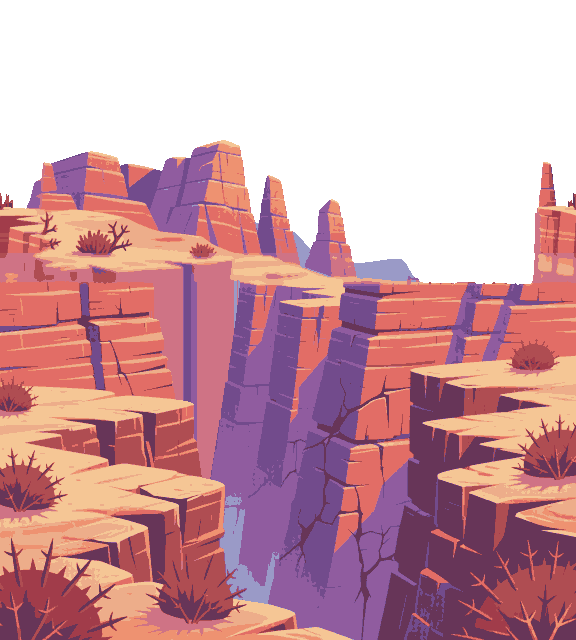
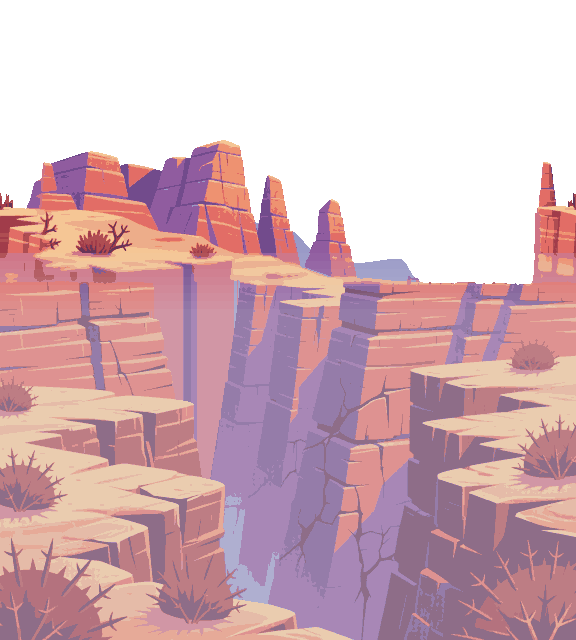
M6a-1b art: the fallen barrier, the smoke as a plume blown west, hazed gorge-wall ledges (D795)
- gen_barrier.png: a huge faint glass dome with a broken-out hole and cracks over the east,
  x0.1, behind everything but the sky; drawn as light on black, brightness -> 4 alpha steps
  (0.1-0.45), one pale cold white. Shared by the path and the scree.
- gen_plume.png replaces the two x0.1 smoke columns (Sapega's sketch: the smoke drifts west
  across the sky and we walk toward its source): x0.4 between far and mid, world-anchored;
  ~100 px of tail at the path's start, the whole plume on the scree, the stem to the source
  always beyond the east edge. comfy_backdrop.py: width= for a layer wider than the screen
  (cache key unchanged for other layers); khaki threshold 20 (gen_mid unchanged).
- ScreeSlide/gen_mid.png: the gorge wall below the ridge +0.35 haze in 8 steps, so its
  ledges stop reading as walkable.
- Review sheet: path -> scree progression, a x2 crop of the barrier, the barrier alone.

Claude-Session: https://claude.ai/code/session_01A2gnDWaoeJGbj3GPH4dnCF

diff --git a/design/shots/candidates/path_planes/path_planes.py b/design/shots/candidates/path_planes/path_planes.py
@@ -1,9 +1,9 @@
 """M6a-1: гірська стежка (2 екрани) і осипище (1×2) — дорога від мосту до села, без боїв (world_structure_plan v3).
 Шари стежки робить comfy_backdrop.py (MountainPath/gen_*); тут — два шари осипища, яких одним текстом не зробити,
-обрізка смуги землі й аркуш для Сапеги.
-  python -B design/shots/candidates/path_planes/path_planes.py gen    — ComfyUI: стіна ущелини під гребенем gen_mid і
-                                                                       схил осипу за напрямною (сирі PNG поруч)
-  python -B design/shots/candidates/path_planes/path_planes.py build  — (scipy) плани осипища, рядок 0 gen_ground
+бар'єр (світло на чорному → прозорість), обрізка смуги землі й аркуш для Сапеги.
+  python -B design/shots/candidates/path_planes/path_planes.py gen    — ComfyUI: стіна ущелини під гребенем gen_mid,
+                                                                       схил осипу за напрямною, бар'єр (сирі PNG поруч)
+  python -B design/shots/candidates/path_planes/path_planes.py build  — (scipy) плани осипища, рядок 0 gen_ground, gen_barrier
   python -B design/shots/candidates/path_planes/path_planes.py sheet  — design/shots/m6a1_path_scree.png
 
 Одиниці — пікселі арту (світ = ×1.5). Стежка 1152×320 (1728×480 світу), осипище 576×640 (864×960), праворуч від
@@ -33,6 +33,32 @@ PATH_W = 1152  # ширина стежки — осипище починаєть
 MID_F = 0.75
 ROLL = round(MID_F * PATH_W) % W  # фаза плитки gen_mid, яку бачить осипище (288)
 KEEP_MID = 253  # рядки gen_mid, що в осипищі лишаються як є; нижче — стіна ущелини
+# бар'єр — величезний прозорий купол над селом із тріщиною (Сапега: «прозорий шар в небі з тріщиною»); лор кольору не
+# дає («дзвенів над дюнами»), тож модель малює світло на чорному, а колір і прозорість — наші (build)
+BARRIER_SEED = 701  # ширший і пласкіший купол; 702 — вужчий
+BARRIER_CROP = (
+    188,
+    72,
+    1556,
+    688,
+)  # x0, y0, x1, y1 сирої: купол без «підлоги» й обідка внизу (вони за горами)
+BARRIER_BLOCK = 3  # px генерації на px арту: купол 456×205 — чотири п'ятих екрана, вершина над усіма горами
+BARRIER_ALPHA = (0.1, 0.18, 0.3, 0.45)  # тіло (за ним видно пролам), відблиски, обрис, кромки тріщини
+BARRIER_TINT = np.array(
+    [236, 246, 255], np.float32
+)  # блідо-біле скло з холодним відтінком (лор кольору не дає)
+WALL_HAZE = 0.35  # додатковий серпанок стіни ущелини під гребенем: уступи не мають читатися як підлога (D795)
+WALL_RAMP = (
+    64  # рядків від KEEP_MID, за які серпанок наростає (8 сходинок, без дизерингу)
+)
+BARRIER_TEXT = (
+    "a gigantic faint transparent dome of magical glass seen from very far away, a thin shimmering hemisphere shell "
+    "of pale white light, its curved base resting on the bottom edge of the frame and its arc filling the whole width, "
+    "only its thin bright outline and a few faint streaks of reflection on its surface, the inside of the dome dark "
+    "and empty, a long jagged crack running down across its upper left part with a large shard broken out of the "
+    "shell leaving a jagged hole, thin cracks branching from the hole, no ground, no landscape, nothing else, on a "
+    "pure solid black background, flat matte painting for a 2D game, clean simple shapes"
+)
 
 
 def raw(name):
@@ -62,7 +88,9 @@ def gen():
     if not os.path.exists(raw("scree_mid_603")):
         g = mid_guide()
         y = np.arange(SH * K)
-        keep = np.clip(((KEEP_MID + 34) * K - y) / (34 * K), 0, 1)  # 1 — лишити, 0 — перемалювати
+        keep = np.clip(
+            ((KEEP_MID + 34) * K - y) / (34 * K), 0, 1
+        )  # 1 — лишити, 0 — перемалювати
         alpha = np.repeat((keep * 255).astype(np.uint8)[:, None, None], W * K, axis=1)
         name = cb.upload(np.concatenate([g, alpha], 2), "scree_mid.png")
         text = (
@@ -119,6 +147,11 @@ def gen():
         out = cb.run(cb.graph(text, 611, SH * K, name, 0.8))
         Image.fromarray(out.astype(np.uint8)).save(raw("scree_611"))
         print("scree_611", flush=True)
+    # бар'єр, що впав (D795): світло на чорному тлі — яскравість стане прозорістю (build)
+    if not os.path.exists(raw(f"barrier_{BARRIER_SEED}")):
+        out = cb.run(cb.graph(BARRIER_TEXT, BARRIER_SEED, 976))
+        Image.fromarray(out.astype(np.uint8)).save(raw(f"barrier_{BARRIER_SEED}"))
+        print(f"barrier_{BARRIER_SEED}", flush=True)
     cb.urllib.request.urlopen(
         cb.urllib.request.Request(
             cb.API + "/free",
@@ -160,6 +193,10 @@ def build():
     out = np.zeros((SH, W, 4), np.uint8)
     out[..., :3] = to_palette(rgb, palette(MP + "gen_mid.png"))
     out[..., 3] = opaque * 255
+    # стіна під гребенем — у серпанку, як далина: сходинками по 8 рядків від KEEP_MID, тож шва з гребенем немає
+    step = np.clip((np.arange(SH) - KEEP_MID) // (WALL_RAMP // 8) + 1, 0, 8) / 8
+    h = (WALL_HAZE * step)[:, None, None]
+    out[..., :3] = np.round(out[..., :3] * (1 - h) + cb.HAZE * h).astype(np.uint8)
     out[: len(mid)][:KEEP_MID] = mid[:KEEP_MID]
     Image.fromarray(out).save(SC + "gen_mid.png")
     # схил: колір — генерація в палітрі gen_ground, форма — точно SLOPE (по ній карта ставить колізію)
@@ -186,10 +223,39 @@ def build():
     out[green, :3] = pal[len(pal) // 2]
     Image.fromarray(out).save(SC + "gen_scree.png")
     print("scree", out.shape, "green fixed", int(green.sum()), flush=True)
+    barrier()
+
+
+def barrier():
+    """Бар'єр, що впав: модель малює світле скло на чорному; яскравість стає прозорістю (BARRIER_ALPHA), колір —
+    BARRIER_TINT. Нижче BARRIER_CROP — обідок і «підлога», які модель ставить під купол: їх ховають гори."""
+    x0, y0, x1, y1 = BARRIER_CROP
+    r = np.asarray(
+        Image.open(raw(f"barrier_{BARRIER_SEED}")).convert("RGB"), np.float32
+    )
+    lum = r[y0:y1, x0:x1].mean(2)
+    b = BARRIER_BLOCK
+    h, w = lum.shape[0] // b, lum.shape[1] // b
+    lum = lum[: h * b, : w * b].reshape(h, b, w, b).mean((1, 3))
+    # пороги яскравості сирої (0–255): тло ~3, тіло ~70, відблиски ~130, обрис ~200, кромки ~240
+    level = np.digitize(lum, [40, 100, 160, 215])
+    out = np.zeros((h, w, 4), np.uint8)
+    out[..., :3] = BARRIER_TINT
+    out[..., 3] = np.round(np.array((0,) + BARRIER_ALPHA)[level] * 255)
+    Image.fromarray(out).save(MP + "gen_barrier.png")
+    print("barrier", out.shape, [int((level == i).sum()) for i in range(5)], flush=True)
 
 
 # --- аркуш ---------------------------------------------------------------------------------------------------------
 FRONT_DARK = np.array([0.3, 0.26, 0.34])  # foreground_dark.tscn (D750)
+# шлейф диму (Сапега, ескіз 27.10): вітер несе дим із села на захід через усе небо; герой біжить під ним на схід.
+# Один план на стежку й осипище, прив'язаний до світу: на початку стежки — лише хвіст біля правого краю кадру (100 px),
+# наприкінці — кінчик посередині й тіло до краю, на осипищі — увесь шлейф, клуб біля східного краю, а стебло до
+# джерела (зріз keep унизу праворуч, стовпці від 568) — за краєм кадру. Звідси множник: між правим краєм кадру на початку
+# стежки й на осипищі — 1152·f px плану, а шлейф лише 568 до стебла, тож при ×0.5 або хвоста не видно, або стебло в кадрі
+PLUME_F = 0.4
+PLUME_AT = (475, -20)  # лівий верхній кут шлейфу в арті при камері 0: кінчик (рядок 83) — у верхній третині неба
+BARRIER_AT = (260, 23)  # лівий верхній кут купола: село й шлейф — під куполом, пролам (x 108–215 купола) видно над горами
 
 
 def img(path):
@@ -198,16 +264,19 @@ def img(path):
 
 def planes(room):
     """(картинка, множник, якір у світі арту при камері 0, плитка) — від заднього до переднього."""
-    smoke, way, front = (
-        img(MP + "gen_smoke.png"),
+    way, front = (
         img(MP + "gen_waymarker.png"),
         img(MP + "gen_front.png"),
     )
     front[..., :3] *= FRONT_DARK
+    barrier = img(MP + "gen_barrier.png")
     p = [
         (img(B + "DesertOasis/bg4/plan5.png"), 0.0, (0, 0), W),
-        (smoke, 0.1, (380, 226 - len(smoke)), None),  # основа нижче найглибшої долини далини (рядок 223)
+        # бар'єр — за горами й шлейфом, спільний для доріг (×0.1, прив'язаний до світу); нижній зріз купола — рядок 228,
+        # нижче найглибшої долини далини (223), тож його ховають гори
+        (barrier, 0.1, BARRIER_AT, None),
         (img(MP + "gen_far.png"), 0.3, (0, 0), W),
+        (img(MP + "gen_plume.png"), PLUME_F, PLUME_AT, None),
     ]
     if room == "path":
         g = img(MP + "gen_ground.png")
@@ -226,16 +295,17 @@ def planes(room):
     return p
 
 
-def view(room, cx, cy, hero):
-    """Кадр 576×324 арту: камера (cx, cy) — лівий верхній кут кадру у світі; y-множник = x-множник."""
+def view(room, cx, cy, hero, n=None):
+    """Кадр 576×324 арту: камера (cx, cy) — лівий верхній кут кадру у світі; y-множник = x-множник. n — лише n
+    задніх планів (без героя)."""
     c = np.zeros((H, W, 4), np.float32)
     c[..., 3] = 255
-    for im, f, (ax, ay), tile in planes(room):
+    for im, f, (ax, ay), tile in planes(room)[:n]:
         x0, y0 = round(ax - f * cx), round(ay - f * cy)
         xs = [x0] if tile is None else range(x0 % tile - tile, W, tile)
         for x in xs:
             paste(c, im, x, y0)
-        if f == 1.0:  # герой — у площині ×1.0, перед підлогою, за реквізитом ×1.3
+        if f == 1.0 and hero:  # герой — у площині ×1.0, перед підлогою, за реквізитом ×1.3
             paste(c, hero[2], hero[0] - cx, hero[1] - cy - len(hero[2]))
     return c
 
@@ -259,24 +329,36 @@ def sheet():
     hw = len(hero[0])
     shots = [
         (
-            "Mountain path: camera at the room's left end",
+            "1/3 of the approach. Mountain path, camera at the room's left end: only the plume's tail, east (plume x0.4)",
             view("path", 0, 0, (288 - hw // 2, WALK, hero)),
         ),
         (
-            "Mountain path: camera one screen right (far x0.3, mid x0.75, waymarker x0.9, ground x1, front x1.3)",
+            "2/3. Mountain path, one screen right (far x0.3, mid x0.75, waymarker x0.9, ground x1, front x1.3)",
             view("path", W, 0, (W + 288 - hw // 2, WALK, hero)),
         ),
         (
-            "Scree slide, top: the frame right after the border (planes continue from the path)",
+            "3/3. Scree slide, top, right after the border: the whole plume, its source beyond the east edge",
             view("scree", PATH_W, 0, (PATH_W + 30, WALK, hero)),
         ),
         (
             "Scree slide: camera one screen down (on the gorge floor; far sinks behind the rim)",
             view("scree", PATH_W, 316, (PATH_W + 500, FLOOR, hero)),
         ),
+        (
+            "The fallen barrier (x0.1), x2 crop: path camera mid-room; the broken hole over the far peaks",
+            np.asarray(
+                Image.fromarray(view("path", 288, 0, None).astype(np.uint8))
+                .crop((242, 60, 530, 222))
+                .resize((W, H), Image.NEAREST)
+            ).astype(np.float32),
+        ),
+        (
+            "The barrier plane alone: sky and barrier (scree top camera, no mountains)",
+            view("scree", PATH_W, 0, None, 2),
+        ),
     ]
     tw, th, lab = 960, 540, 28
-    out = Image.new("RGB", (tw * 2 + 12, (th + lab) * 2 + 12), (24, 22, 28))
+    out = Image.new("RGB", (tw * 2 + 12, (th + lab) * 3 + 24), (24, 22, 28))
     d = ImageDraw.Draw(out)
     font = ImageFont.load_default()
     for i, (title, v) in enumerate(shots):

diff --git a/Scripts/Tools/comfy_backdrop.py b/Scripts/Tools/comfy_backdrop.py
@@ -1063,7 +1063,7 @@ LAYERS = {
         f"fifth of its width, empty space on both sides, its base resting on the bottom edge, {CHROMA}",
     ),
     # M6a-1: дорога від мосту до села — гірська стежка й осипище (спільні далина, дим і передній план; збирає
-    # design/shots/candidates/path_planes/path_planes.py). Бар'єр не малюємо: лор не каже, який він на вигляд.
+    # design/shots/candidates/path_planes/path_planes.py). Бар'єр (прозорий купол із проламом, D795) — там же.
     "MountainPath/gen_far": dict(
         seed=501,
         rows=240,
@@ -1078,26 +1078,32 @@ LAYERS = {
         "dusty rose and sandy violet rock with violet shadows, spanning the full width and reaching the bottom edge, "
         f"{CHROMA}",
     ),
-    # дим над селом — окремий предмет за далекими горами (×0.15), а не в плитці далини: інакше він повторюється
-    "MountainPath/gen_smoke": dict(
-        seed=503,
-        rows=H,
+    # дим над селом — довгий шлейф, який вітер несе на захід через усе небо стежки (Сапега, ескіз 27.10: «десь з-за
+    # краю екрану починається дим, потім ми підходимо до села»): тонкий кінчик на заході, широке тіло, на сході
+    # спускається до джерела за східним краєм. Ширший за екран: width — ширина генерації в px гри при SCALE
+    "MountainPath/gen_plume": dict(
+        seed=722,  # 721 — стіна праворуч, 723 — клуб на пів неба; 722 — тонкий кінчик, клуб праворуч, стебло донизу
+        rows=288,
+        width=864,
+        block=4,  # 648 px: шлейф займає верх неба, а не пів екрана
+        keep=186,  # нижче — димар і смуга землі, які модель ставить під джерелом
         top=0,
-        small=2,  # далекий дим — удвічі менший за повний кадр, у пікселях гри
-        spill=8,  # «помаранчевий жар» біля основи модель малює оливковим
         seam="none",
         trim=True,
-        keep=148,  # нижче — смуга мурованої землі, яку модель стелить під димом
-        cut=(85, 191),
+        blob=True,
+        spill=8,
+        khaki=True,  # оливкові відблиски зеленого тла на верхах клубів
         key="green",
         shade=0,
         fill=False,
         haze=0.1,
         colors=8,
-        prompt="two columns of thick dark smoke rising high into the air, a tall one and a smaller one beside it, "
-        "billowing up in heavy rounded puffs of charcoal grey and dark violet, a faint orange ember glow at their narrow "
-        "bases, the columns leaning and spreading to the right at the top, alone in the middle of the frame with empty "
-        f"space on both sides, their bases on the bottom edge, {CHROMA}",
+        prompt="one long horizontal plume of dark smoke blown sideways by a strong wind, drifting from right to left "
+        "across the sky: at the right edge of the frame it is thick, wide and billowing in heavy rounded puffs, bending "
+        "down toward the bottom right corner, and toward the left it grows steadily thinner and narrower until it ends "
+        "in a thin ragged wispy pointed tip in the left third of the frame, the left quarter of the frame completely "
+        "empty, charcoal grey and dark violet smoke, the plume floating in the upper half of the frame with empty space "
+        f"above it, {CHROMA}",
     ),
     "MountainPath/gen_mid": dict(
         seed=505,
@@ -1180,7 +1186,7 @@ LAYERS = {
 }
 
 
-def graph(text, seed, height, image=None, denoise=1.0):
+def graph(text, seed, height, image=None, denoise=1.0, width=GW):
     """Граф API ComfyUI; з image — перемальовує лише прозору смугу цієї картинки."""
     g = {
         "unet": (
@@ -1212,7 +1218,7 @@ def graph(text, seed, height, image=None, denoise=1.0):
         "neg": ("CLIPTextEncode", {"clip": ["clip", 0], "text": ""}),  # cfg 1 — не діє
         "latent": (
             "EmptySD3LatentImage",
-            {"width": GW, "height": height, "batch_size": 1},
+            {"width": width, "height": height, "batch_size": 1},
         ),
         "sample": (
             "KSampler",
@@ -1298,9 +1304,10 @@ def seam_pass(img, layer, text, height):
 
 
 def cache_path(layer):
-    tag = json.dumps(
-        [layer["prompt"], STYLE, layer["seed"], layer["rows"], layer["seam"]]
-    )
+    tag = [layer["prompt"], STYLE, layer["seed"], layer["rows"], layer["seam"]]
+    if layer.get("width"):  # ширший за екран шар (шлейф диму); без width ключ кешу старий
+        tag.append(layer["width"])
+    tag = json.dumps(tag)
     return os.path.join(CACHE, hashlib.sha1(tag.encode()).hexdigest()[:16] + ".png")
 
 
@@ -1347,7 +1354,7 @@ def generate(layer):
         return np.asarray(Image.open(path).convert("RGB"), dtype=np.float32)
     height = -(-layer["rows"] * SCALE // 16) * 16  # сторони латента кратні 16
     text = f"{layer['prompt']}, {STYLE}"
-    img = run(graph(text, layer["seed"], height))
+    img = run(graph(text, layer["seed"], height, width=layer.get("width", W) * SCALE))
     if layer["seam"] == "model":
         img = seam_pass(
             np.roll(img, GW // 2, axis=1), layer, text, height
@@ -1549,11 +1556,13 @@ if __name__ == "__main__":
                 & (px[..., 1] > px[..., 0] + 15)
                 & (px[..., 1] >= px[..., 2] - 10)
             )
-            if layer.get("khaki"):  # хакі-кромка скелі: зелене тло, змішане з пісковиком (MountainPath/gen_mid)
+            # хакі-кромка скелі: зелене тло, змішане з пісковиком (MountainPath/gen_mid); поріг 20 ловить і оливкові
+            # відблиски на клубах gen_plume (gen_mid від нього не змінився)
+            if layer.get("khaki"):
                 tinted |= (
                     (out[..., 3] > 0)
                     & (np.abs(px[..., 0] - px[..., 1]) < 25)
-                    & (px[..., 1] > px[..., 2] + 25)
+                    & (px[..., 1] > px[..., 2] + 20)
                 )
             clean = (out[..., 3] > 0) & ~tinted
             if tinted.any() and clean.any():

diff --git a/SampleProject/Assets/Backgrounds/MountainPath/README.md b/SampleProject/Assets/Backgrounds/MountainPath/README.md
@@ -5,17 +5,27 @@
 walk line by `design/shots/candidates/path_planes/path_planes.py`. A Steam release has to disclose AI-generated content.
 
 The room: outdoor, main road, 2 cells (1728 × 480 world), between the bridge (west) and the Scree Slide (east). No
-fights; the story is in the background: smoke over the village to the east. The fallen barrier is **not** drawn
-(the lore never says what it looks like). Review: `design/shots/m6a1_path_scree.png`.
+fights; the story is in the background: a plume of smoke blown west from the village, and the fallen barrier — a
+cracked glass dome over the east (D795). Review: `design/shots/m6a1_path_scree.png`.
 
 Back to front (art px; the scene draws them at scale 1.5; scroll factor on both axes):
 
 - sky: the shared pack sky `DesertOasis/bg4/plan5.png` and drifting clouds, as the canyon (×0).
-- `gen_smoke.png` (100×141) — two columns of dark smoke from the burning village. ×0.1, **behind** `gen_far`; its foot
-  at art row 226 (world y 339), below the deepest valley of `gen_far` (row 223), so the mountains hide where it rises.
-  On the review sheet it sits at art x 380 with the camera at the path's left end. Also used by the Scree Slide.
+- `gen_barrier.png` (456×205) — the fallen barrier (Sapega: «прозорий шар в небі з тріщиною»): a huge faint glass dome
+  with a jagged broken-out hole and cracks in its upper left. Drawn by the model as light on black
+  (`path_planes.py gen`, seed 701); brightness became alpha in four steps — body 0.1, streaks 0.18, outline 0.3, crack
+  edges 0.45 — in one pale cold white (236, 246, 255). ×0.1, the farthest plane after the sky; top-left at art
+  (260, 23) with the camera at the path's left end, so its cut bottom (row 228) stays below the deepest valley of
+  `gen_far` (223). The hole is at x 108–215 of the image. Also used by the Scree Slide.
 - `gen_far.png` (576×324) — distant bare rocky mountains, hazed, filled down; seamless tile. ×0.3. Also used by the
   Scree Slide.
+- `gen_plume.png` (589×149) — the smoke of the burning village as a long plume blown west across the sky (Sapega's
+  sketch, 27.10): thin tail on the left, widening, a big rounded puff, and on the right a stem bending down to the
+  source, cut at the bottom (`keep`). ×0.4, in front of `gen_far`, behind `gen_mid`; top-left at art (475, −20) with the
+  camera at the path's left end. So the hero walks under it toward its source: at the path's start only ~100 px of the
+  tail come in at the right edge near the top, at its end the tip is mid-screen, and on the Scree Slide the whole plume
+  is in view with the puff at the east edge and the stem beyond it. ×0.4, not ×0.5: between the path's start and the
+  scree the camera covers 1152 × f px of the plane, and the plume is 568 px to the stem. Also used by the Scree Slide.
 - `gen_mid.png` (576×324) — a ridge of red sandstone cliffs and spires with dry thorn bushes, filled down; seamless
   tile. ×0.75.
 - `gen_waymarker.png` (42×57) — a broken stone waymarker with a carved spiral and a blue ribbon, the one story prop.

diff --git a/SampleProject/Assets/Backgrounds/ScreeSlide/README.md b/SampleProject/Assets/Backgrounds/ScreeSlide/README.md
@@ -11,11 +11,14 @@ Stream Gorge, which continues east from the lower cell. Review: `design/shots/m6
 
 Back to front (art px; scale 1.5; scroll factor on both axes, so on the way down the far plane sinks behind the rim):
 
-- sky, `MountainPath/gen_smoke.png` (×0.1), `MountainPath/gen_far.png` (×0.3) — shared with the path, shifted by
-  −factor × 1728 world px (the path's width), so they go on from where the path left them.
+- sky, `MountainPath/gen_barrier.png` (×0.1), `MountainPath/gen_far.png` (×0.3), `MountainPath/gen_plume.png` (×0.4) —
+  shared with the path, shifted by −factor × 1728 world px (the path's width), so they go on from where the path left
+  them. Here the whole smoke plume is in view, its puff at the east edge and its stem beyond the edge; on the way down
+  it rises out of the frame.
 - `gen_mid.png` (576×640) — the far wall of the gorge, ×0.75; drawn for this room's only camera x, no further shift.
   Rows 0–252 are `MountainPath/gen_mid.png` rolled 288 art px (the phase the path's tile reaches at the border);
-  below, the gorge wall, in the same 12 colours.
+  below, the gorge wall, in the same 12 colours, hazed further so its ledges don't read as walkable (D795): +0.35
+  toward the sky haze, reached in 8 steps over the 64 rows under row 253, so there is no seam with the ridge.
 - `gen_scree.png` (576×640) — the scree slope and the rock under it, ×1.0, room-sized; transparent above the surface.
   The surface, in world px (room-local) — the collision follows it: flat (0, 416) → (96, 416), slope down to
   (720, 896) (about 38°, under the 45° floor limit), flat (720, 896) → (864, 896), the gorge floor and the exit east.

diff --git a/design/m6_backdrops.md b/design/m6_backdrops.md
@@ -59,8 +59,8 @@ doors and painted objects follow the size chart of [[world_scale_plan]] — the 
 | Room | Kind | Screens | Passages to paint | Status |
 |---|---|---|---|---|
 | Lizard Cave (exists) | underground | — | the lizard idol shrines become separate props; the wall behind them is repainted without them | ✅ B162 (`cccb333c`): far / wall / shrines / floor planes |
-| Mountain path | outdoor, main | 2 | — | 🔄 art M6a-1 (`Backgrounds/MountainPath/`: smoke ×0.1, far ×0.3, mid ×0.75, waymarker ×0.9, ground, front; barrier not drawn — lore has no look), waiting for Sapega’s look at `shots/m6a1_path_scree.png` |
-| Scree slide | outdoor, main, falls | 1×2 | a scree run down | 🔄 art M6a-1 (`Backgrounds/ScreeSlide/`: gorge-wall mid ×0.75, slope ×1.0 with its surface polyline in the README; shares the path’s far, smoke, front), same review |
+| Mountain path | outdoor, main | 2 | — | 🔄 art M6a-1 (`Backgrounds/MountainPath/`: barrier ×0.1 (cracked glass dome), far ×0.3, smoke plume ×0.4 blown west, mid ×0.75, waymarker ×0.9, ground, front — M6a-1b, D795), waiting for Sapega’s look at `shots/m6a1_path_scree.png` |
+| Scree slide | outdoor, main, falls | 1×2 | a scree run down | 🔄 art M6a-1 (`Backgrounds/ScreeSlide/`: gorge-wall mid ×0.75 with hazed ledges, slope ×1.0 with its surface polyline in the README; shares the path’s barrier, far, plume, front), same review |
 | Stream gorge | outdoor, main | 3 | — | ⬜ |
 | Rock ledges | outdoor, main, climbs | 1×2 | ledges up (no floating platforms, A15) | ⬜ |
 | Cave under the bridge | underground | 1×3 | the cave mouth; the way down | ⬜ |
